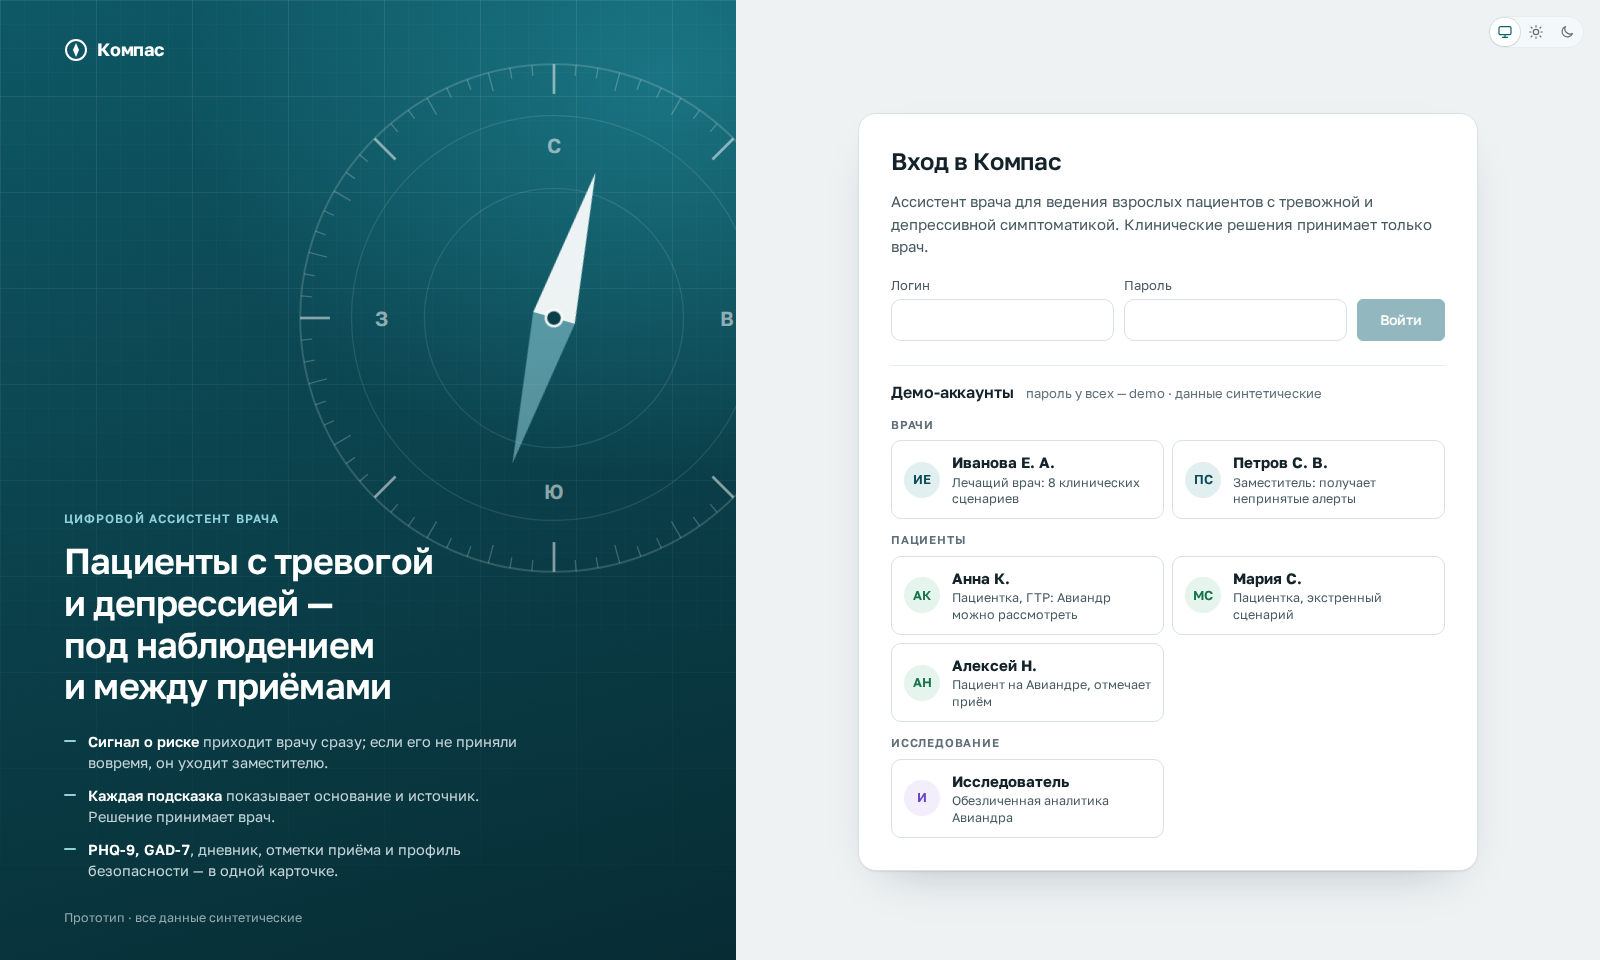
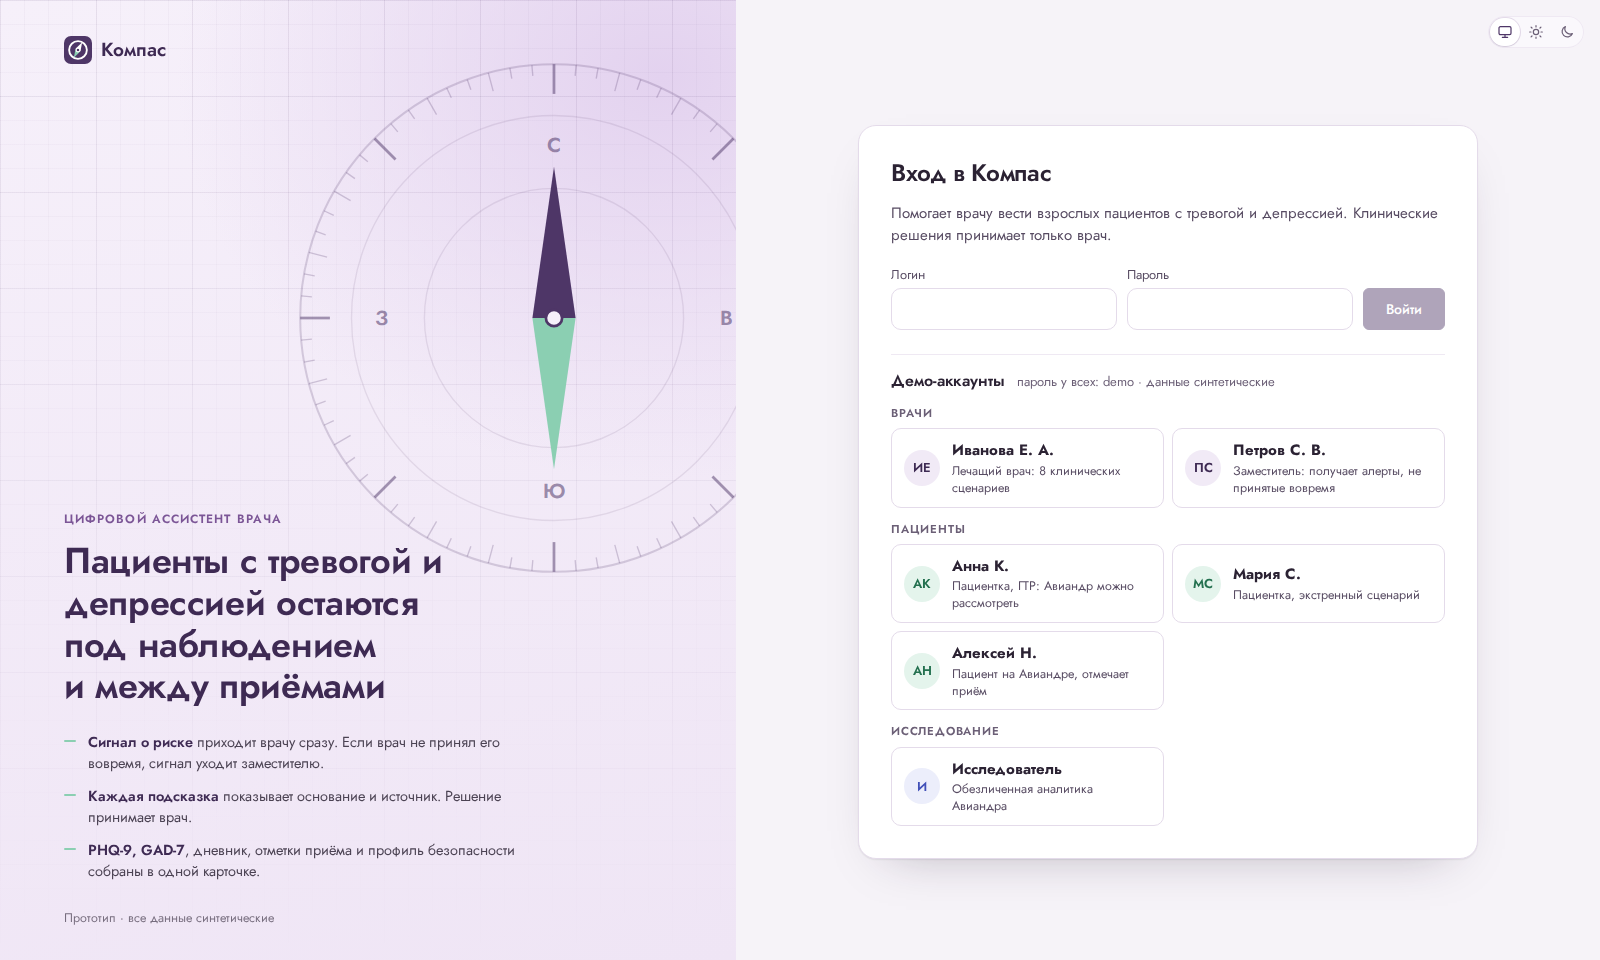
Интерфейс в стиле ТЗ хакатона: Jost, фиолетовый и мятный, новый знак и иконки
Светлая обложка входа, рамка телефона и тени без бирюзы. Безопасность терапии
теперь индиго, чтобы не путаться с фиолетовым цветом интерфейса. Серии аналитики
перепроверены валидатором палитры в обеих темах: дальтонизм ΔE ≥ 11,4 (светлая),
≥ 14,5 (тёмная). Текст по WCAG AA ≥ 5,4:1. Скриншоты README пересняты.

diff --git a/frontend/src/styles.css b/frontend/src/styles.css
@@ -2,47 +2,56 @@
    Нейтральная основа тихая и холодная, как хорошо освещённый кабинет.
    Цвет зарезервирован под клинический смысл:
    красный — экстренно / «обязательно», янтарный — «желательно» и «нет данных»,
-   фиолетовый — безопасность терапии, серый пунктир — качество данных,
-   петроль — интерфейс и действия врача.
+   индиго — безопасность терапии, серый пунктир — качество данных,
+   фиолетовый (стиль ТЗ хакатона: Jost, фиолетовый, сиреневый, мятный) — интерфейс и действия врача.
    Тема: системная по умолчанию; data-theme="light" | "dark" на <html> её перекрывает (src/theme.ts).
    Контраст текста по WCAG AA (≥ 4,5:1) проверен для обеих тем. */
 :root {
-  --paper: #eef2f3;
+  --paper: #f6f3f8;
   --surface: #ffffff;
-  --surface-2: #f5f8f9;
-  --rail-bg: #e7edef;
-  --ink: #14232a;
-  --ink-2: #475961;
-  --ink-3: #5f6f77;
-  --line: #d8e1e4;
-  --line-2: #e7edef;
-  --brand: #0f6170;
-  --brand-ink: #0b4a56;
-  --brand-soft: #e1eff1;
+  --surface-2: #faf8fc;
+  --rail-bg: #f0eaf4;
+  --ink: #2b2233;
+  --ink-2: #574b62;
+  --ink-3: #6b5f76;
+  --line: #e4dbea;
+  --line-2: #efe9f3;
+  --brand: #4e3667;
+  --brand-ink: #3e2a53;
+  --brand-soft: #f1eaf6;
   --on-brand: #ffffff;
-  --action: #0f6170;
-  --action-hover: #0b4a56;
+  --action: #4e3667;
+  --action-hover: #3e2a53;
   --on-action: #ffffff;
   --must: #b42318;
   --must-soft: #fdeeec;
   --on-must: #ffffff;
   --want: #975404;
   --want-soft: #fdf3e4;
-  --rx: #6941c6;
-  --rx-soft: #f2eefc;
-  --ok: #16734a;
-  --ok-soft: #e5f4ec;
+  --rx: #4150b8;
+  --rx-soft: #eceefb;
+  --ok: #23704f;
+  --ok-soft: #e4f4ec;
+  --mint: #8bcfb2;
   --band-1: #d9efe2; --band-2: #e9f1cf; --band-3: #fae6bd; --band-4: #f9d5bb; --band-5: #f5c5bf;
   --viz-line: var(--brand-ink);
-  --skel: #e2e9ec;
+  --skel: #ebe4f0;
   --skel-hi: rgba(255, 255, 255, .7);
-  --shadow: 0 1px 2px rgba(20, 35, 42, .05), 0 1px 1px rgba(20, 35, 42, .03);
-  --shadow-lg: 0 12px 32px rgba(14, 30, 37, .16);
-  --scrim: rgba(10, 20, 25, .5);
+  --shadow: 0 1px 2px rgba(43, 34, 51, .05), 0 1px 1px rgba(43, 34, 51, .03);
+  --shadow-lg: 0 12px 32px rgba(38, 27, 48, .16);
+  --scrim: rgba(24, 16, 30, .5);
   --r-s: 6px;
   --r-m: 10px;
   --r-l: 14px;
-  --font: 'Golos Text', system-ui, -apple-system, 'Segoe UI', sans-serif;
+  --font: 'Jost', system-ui, -apple-system, 'Segoe UI', sans-serif;
+  /* экран входа: светлая лавандовая обложка, как в ТЗ */
+  --hero-bg: radial-gradient(110% 70% at 90% 8%, #e3d2ef 0%, transparent 60%), linear-gradient(165deg, #f6f0fa 0%, #efe5f5 100%);
+  --hero-ink: #3e2a53; --hero-ink-2: rgba(43, 34, 51, .84); --hero-ink-3: rgba(43, 34, 51, .62);
+  --hero-accent: #7b5596; --hero-grid: rgba(78, 54, 103, .07); --hero-grid-2: rgba(78, 54, 103, .03);
+  --hero-ring: rgba(78, 54, 103, .2); --hero-ring-2: rgba(78, 54, 103, .11); --hero-tick: rgba(78, 54, 103, .24);
+  --hero-tick-major: rgba(78, 54, 103, .5); --hero-letter: rgba(78, 54, 103, .55);
+  --hero-north: #4e3667; --hero-south: #8bcfb2; --hero-hub: #f6f0fa; --hero-hub-ring: #4e3667;
+  --phone-frame: #2a2131;
   --topbar-h: 56px;
   --ease-out: cubic-bezier(.2, .7, .2, 1);
   --ease-spring: cubic-bezier(.3, 1.3, .6, 1);
@@ -53,31 +62,45 @@
 /* Тёмная тема: одни и те же значения для системной настройки и для явного выбора */
 @media (prefers-color-scheme: dark) {
   :root:where(:not([data-theme="light"])) {
-    --paper: #0c1418; --surface: #141f26; --surface-2: #1a2830; --rail-bg: #101a20;
-    --ink: #e6eef1; --ink-2: #aebdc4; --ink-3: #8b9ca4; --line: #2a3b45; --line-2: #1f2e37;
-    --brand: #5ab4c2; --brand-ink: #8fd0da; --brand-soft: #143239; --on-brand: #0b1519;
-    --action: #237c89; --action-hover: #1e6f7b; --on-action: #ffffff;
+    --paper: #141019; --surface: #1d1724; --surface-2: #251e2d; --rail-bg: #18131e;
+    --ink: #efe9f3; --ink-2: #c7bccf; --ink-3: #a597ae; --line: #3a3043; --line-2: #2a2231;
+    --brand: #cdb4e4; --brand-ink: #e4d4f0; --brand-soft: #2e2339; --on-brand: #1a1220;
+    --action: #6d4d8f; --action-hover: #7d5ba0; --on-action: #ffffff;
     --must: #f28b80; --must-soft: #3a1e1c; --on-must: #1a0b0a; --want: #e7b35e; --want-soft: #33291a;
-    --rx: #b9a0f0; --rx-soft: #282042; --ok: #6fcf98; --ok-soft: #15301f;
-    --band-1: color-mix(in srgb, #6fcf98 22%, #141f26); --band-2: color-mix(in srgb, #b9d16a 22%, #141f26);
-    --band-3: color-mix(in srgb, #e7b35e 24%, #141f26); --band-4: color-mix(in srgb, #ee9a68 26%, #141f26);
-    --band-5: color-mix(in srgb, #f28b80 30%, #141f26);
-    --skel: #1d2b33; --skel-hi: rgba(255, 255, 255, .06);
+    --rx: #a3a8f6; --rx-soft: #23253f; --ok: #6fcf98; --ok-soft: #15301f;
+    --band-1: color-mix(in srgb, #6fcf98 22%, #1d1724); --band-2: color-mix(in srgb, #b9d16a 22%, #1d1724);
+    --band-3: color-mix(in srgb, #e7b35e 24%, #1d1724); --band-4: color-mix(in srgb, #ee9a68 26%, #1d1724);
+    --band-5: color-mix(in srgb, #f28b80 30%, #1d1724);
+    --skel: #2a2232; --skel-hi: rgba(255, 255, 255, .06);
+    --hero-bg: radial-gradient(110% 70% at 90% 8%, rgba(141, 99, 180, .45) 0%, transparent 60%), linear-gradient(165deg, #3a2950 0%, #271b36 55%, #1a1224 100%);
+    --hero-ink: #ffffff; --hero-ink-2: rgba(240, 232, 245, .84); --hero-ink-3: rgba(240, 232, 245, .62);
+    --hero-accent: #d8c1e6; --hero-grid: rgba(255, 255, 255, .06); --hero-grid-2: rgba(255, 255, 255, .025);
+    --hero-ring: rgba(255, 255, 255, .16); --hero-ring-2: rgba(255, 255, 255, .1); --hero-tick: rgba(255, 255, 255, .22);
+    --hero-tick-major: rgba(255, 255, 255, .5); --hero-letter: rgba(255, 255, 255, .55);
+    --hero-north: rgba(255, 255, 255, .92); --hero-south: rgba(139, 207, 178, .6); --hero-hub: #271b36; --hero-hub-ring: rgba(255, 255, 255, .9);
+    --phone-frame: #3a3043;
     --shadow: none; --shadow-lg: 0 14px 36px rgba(0, 0, 0, .5); --scrim: rgba(0, 0, 0, .62);
     color-scheme: dark;
   }
 }
 :root[data-theme="dark"] {
-  --paper: #0c1418; --surface: #141f26; --surface-2: #1a2830; --rail-bg: #101a20;
-  --ink: #e6eef1; --ink-2: #aebdc4; --ink-3: #8b9ca4; --line: #2a3b45; --line-2: #1f2e37;
-  --brand: #5ab4c2; --brand-ink: #8fd0da; --brand-soft: #143239; --on-brand: #0b1519;
-  --action: #237c89; --action-hover: #1e6f7b; --on-action: #ffffff;
+  --paper: #141019; --surface: #1d1724; --surface-2: #251e2d; --rail-bg: #18131e;
+  --ink: #efe9f3; --ink-2: #c7bccf; --ink-3: #a597ae; --line: #3a3043; --line-2: #2a2231;
+  --brand: #cdb4e4; --brand-ink: #e4d4f0; --brand-soft: #2e2339; --on-brand: #1a1220;
+  --action: #6d4d8f; --action-hover: #7d5ba0; --on-action: #ffffff;
   --must: #f28b80; --must-soft: #3a1e1c; --on-must: #1a0b0a; --want: #e7b35e; --want-soft: #33291a;
-  --rx: #b9a0f0; --rx-soft: #282042; --ok: #6fcf98; --ok-soft: #15301f;
-  --band-1: color-mix(in srgb, #6fcf98 22%, #141f26); --band-2: color-mix(in srgb, #b9d16a 22%, #141f26);
-  --band-3: color-mix(in srgb, #e7b35e 24%, #141f26); --band-4: color-mix(in srgb, #ee9a68 26%, #141f26);
-  --band-5: color-mix(in srgb, #f28b80 30%, #141f26);
-  --skel: #1d2b33; --skel-hi: rgba(255, 255, 255, .06);
+  --rx: #a3a8f6; --rx-soft: #23253f; --ok: #6fcf98; --ok-soft: #15301f;
+  --band-1: color-mix(in srgb, #6fcf98 22%, #1d1724); --band-2: color-mix(in srgb, #b9d16a 22%, #1d1724);
+  --band-3: color-mix(in srgb, #e7b35e 24%, #1d1724); --band-4: color-mix(in srgb, #ee9a68 26%, #1d1724);
+  --band-5: color-mix(in srgb, #f28b80 30%, #1d1724);
+  --skel: #2a2232; --skel-hi: rgba(255, 255, 255, .06);
+  --hero-bg: radial-gradient(110% 70% at 90% 8%, rgba(141, 99, 180, .45) 0%, transparent 60%), linear-gradient(165deg, #3a2950 0%, #271b36 55%, #1a1224 100%);
+  --hero-ink: #ffffff; --hero-ink-2: rgba(240, 232, 245, .84); --hero-ink-3: rgba(240, 232, 245, .62);
+  --hero-accent: #d8c1e6; --hero-grid: rgba(255, 255, 255, .06); --hero-grid-2: rgba(255, 255, 255, .025);
+  --hero-ring: rgba(255, 255, 255, .16); --hero-ring-2: rgba(255, 255, 255, .1); --hero-tick: rgba(255, 255, 255, .22);
+  --hero-tick-major: rgba(255, 255, 255, .5); --hero-letter: rgba(255, 255, 255, .55);
+  --hero-north: rgba(255, 255, 255, .92); --hero-south: rgba(139, 207, 178, .6); --hero-hub: #271b36; --hero-hub-ring: rgba(255, 255, 255, .9);
+  --phone-frame: #3a3043;
   --shadow: none; --shadow-lg: 0 14px 36px rgba(0, 0, 0, .5); --scrim: rgba(0, 0, 0, .62);
   color-scheme: dark;
 }
@@ -119,8 +142,11 @@ ul, ol { margin: 0; }
   display: flex; align-items: center; gap: 12px 18px; height: var(--topbar-h); padding: 0 16px 0 24px;
   background: var(--surface); border-bottom: 1px solid var(--line); position: sticky; top: 0; z-index: 10;
 }
-.logo { display: flex; align-items: center; gap: 9px; font-weight: 700; font-size: 18px; letter-spacing: -0.01em; color: var(--ink); white-space: nowrap; }
-.logo svg { color: var(--brand); flex: none; }
+.logo { display: flex; align-items: center; gap: 9px; font-weight: 600; font-size: 19px; letter-spacing: 0; color: var(--brand-ink); white-space: nowrap; }
+.logo svg { flex: none; }
+.logo-tile { fill: var(--action); }
+.logo-south { fill: var(--mint); }
+.logo-hub { fill: var(--action); stroke: #fff; stroke-width: 5; }
 .tabs { display: flex; align-self: stretch; gap: 2px; margin-left: 10px; }
 .tabs button {
   position: relative; display: inline-flex; align-items: center; gap: 8px; border: 0; background: transparent;
@@ -534,7 +560,7 @@ ul, ol { margin: 0; }
 .patient-wrap { display: flex; justify-content: center; align-items: flex-start; padding: 32px 16px 56px; gap: 48px; flex-wrap: wrap; }
 .phone {
   width: 390px; max-width: 100%; height: 800px; background: var(--surface); border-radius: 36px;
-  box-shadow: 0 0 0 10px #1d2a30, 0 24px 60px rgba(14, 30, 37, .22);
+  box-shadow: 0 0 0 10px var(--phone-frame), 0 24px 60px rgba(38, 27, 48, .22);
   overflow: hidden; display: flex; flex-direction: column; position: relative;
 }
 .phone-status { display: flex; justify-content: space-between; padding: 12px 28px 0; font-size: 13px; font-weight: 600; }
@@ -685,40 +711,37 @@ ul, ol { margin: 0; }
 .login { position: relative; min-height: 100dvh; display: grid; grid-template-columns: minmax(400px, .92fr) minmax(0, 1.08fr); }
 .login-hero {
   position: relative; overflow: hidden; display: flex; flex-direction: column; gap: 28px;
-  padding: 36px clamp(32px, 4vw, 64px) 32px; color: #e8f3f5;
-  background:
-    radial-gradient(110% 70% at 90% 8%, rgba(37, 147, 163, .55) 0%, transparent 60%),
-    linear-gradient(165deg, #0e5866 0%, #0a3f49 55%, #072c34 100%);
+  padding: 36px clamp(32px, 4vw, 64px) 32px; color: var(--hero-ink-2);
+  background: var(--hero-bg);
 }
 /* миллиметровка — как бумага медицинских записей и графиков */
 .login-hero::before {
   content: ''; position: absolute; inset: 0; pointer-events: none;
   background-image:
-    linear-gradient(rgba(255, 255, 255, .06) 1px, transparent 1px), linear-gradient(90deg, rgba(255, 255, 255, .06) 1px, transparent 1px),
-    linear-gradient(rgba(255, 255, 255, .025) 1px, transparent 1px), linear-gradient(90deg, rgba(255, 255, 255, .025) 1px, transparent 1px);
+    linear-gradient(var(--hero-grid) 1px, transparent 1px), linear-gradient(90deg, var(--hero-grid) 1px, transparent 1px),
+    linear-gradient(var(--hero-grid-2) 1px, transparent 1px), linear-gradient(90deg, var(--hero-grid-2) 1px, transparent 1px);
   background-size: 96px 96px, 96px 96px, 24px 24px, 24px 24px;
   -webkit-mask-image: linear-gradient(180deg, #000 0%, rgba(0, 0, 0, .55) 55%, transparent 100%);
   mask-image: linear-gradient(180deg, #000 0%, rgba(0, 0, 0, .55) 55%, transparent 100%);
 }
-.login-hero .logo { position: relative; z-index: 1; color: #fff; }
-.login-hero .logo svg { color: #fff; }
+.login-hero .logo { position: relative; z-index: 1; color: var(--hero-ink); }
 .hero-copy { position: relative; z-index: 1; max-width: 32em; margin-top: auto; }
-.hero-kicker { font-size: 12px; font-weight: 600; letter-spacing: .09em; text-transform: uppercase; color: #8fd0da; }
-.hero-title { font-size: clamp(26px, 2.3vw, 36px); line-height: 1.16; font-weight: 600; letter-spacing: -.022em; margin: 12px 0 24px; color: #fff; text-wrap: balance; }
-.hero-points { list-style: none; padding: 0; display: grid; gap: 12px; font-size: 14.5px; line-height: 1.45; color: rgba(232, 243, 245, .84); }
+.hero-kicker { font-size: 12px; font-weight: 600; letter-spacing: .09em; text-transform: uppercase; color: var(--hero-accent); }
+.hero-title { font-size: clamp(26px, 2.3vw, 36px); line-height: 1.16; font-weight: 600; letter-spacing: -.01em; margin: 12px 0 24px; color: var(--hero-ink); text-wrap: balance; }
+.hero-points { list-style: none; padding: 0; display: grid; gap: 12px; font-size: 14.5px; line-height: 1.45; color: var(--hero-ink-2); }
 .hero-points li { padding-left: 24px; position: relative; }
-.hero-points li::before { content: ''; position: absolute; left: 0; top: .62em; width: 12px; height: 2px; border-radius: 2px; background: #8fd0da; }
-.hero-points b { color: #fff; font-weight: 600; }
-.hero-foot { position: relative; z-index: 1; font-size: 12.5px; color: rgba(232, 243, 245, .62); }
+.hero-points li::before { content: ''; position: absolute; left: 0; top: .62em; width: 12px; height: 2px; border-radius: 2px; background: var(--mint); }
+.hero-points b { color: var(--hero-ink); font-weight: 600; }
+.hero-foot { position: relative; z-index: 1; font-size: 12.5px; color: var(--hero-ink-3); }
 .compass-art { position: absolute; top: 5%; right: -12%; width: min(540px, 82%); height: auto; pointer-events: none; }
-.ca-ring { fill: none; stroke: rgba(255, 255, 255, .16); stroke-width: 1.5; }
-.ca-ring.thin { stroke-width: 1; stroke: rgba(255, 255, 255, .1); }
-.ca-tick { stroke: rgba(255, 255, 255, .22); stroke-width: 1; }
-.ca-tick.major { stroke: rgba(255, 255, 255, .5); stroke-width: 2; }
-.ca-letter { fill: rgba(255, 255, 255, .55); font-size: 15px; font-weight: 600; font-family: var(--font); }
-.ca-north { fill: rgba(255, 255, 255, .92); }
-.ca-south { fill: rgba(143, 208, 218, .55); }
-.ca-hub { fill: #0a3f49; stroke: rgba(255, 255, 255, .9); stroke-width: 2; }
+.ca-ring { fill: none; stroke: var(--hero-ring); stroke-width: 1.5; }
+.ca-ring.thin { stroke-width: 1; stroke: var(--hero-ring-2); }
+.ca-tick { stroke: var(--hero-tick); stroke-width: 1; }
+.ca-tick.major { stroke: var(--hero-tick-major); stroke-width: 2; }
+.ca-letter { fill: var(--hero-letter); font-size: 15px; font-weight: 600; font-family: var(--font); }
+.ca-north { fill: var(--hero-north); }
+.ca-south { fill: var(--hero-south); }
+.ca-hub { fill: var(--hero-hub); stroke: var(--hero-hub-ring); stroke-width: 2; }
 .ca-needle { animation: needle-settle 2.4s cubic-bezier(.25, .8, .3, 1) .25s both; }
 @keyframes needle-settle {
   0% { transform: rotate(-80deg); } 40% { transform: rotate(16deg); } 62% { transform: rotate(-6deg); }
@@ -728,7 +751,7 @@ ul, ol { margin: 0; }
 .login-tools { position: absolute; top: 16px; right: 16px; z-index: 2; }
 .login-card {
   width: min(620px, 100%); background: var(--surface); border: 1px solid var(--line); border-radius: 18px;
-  padding: 32px; box-shadow: var(--shadow), 0 20px 50px -30px rgba(14, 30, 37, .35); display: grid; gap: 14px;
+  padding: 32px; box-shadow: var(--shadow), 0 20px 50px -30px rgba(38, 27, 48, .35); display: grid; gap: 14px;
   animation: view-in .4s var(--ease-out) both;
 }
 .login-form { display: grid; grid-template-columns: 1fr 1fr auto; gap: 10px; align-items: end; margin-top: 4px; }

diff --git a/frontend/src/analytics.css b/frontend/src/analytics.css
@@ -1,5 +1,5 @@
 /* Экран «Авиандр: наблюдение применения». Токены — из styles.css, цвета серий — здесь.
-   Цвета групп исхода: петроль — продолжают (интерфейс), фиолетовый — отмена из-за НЯ
+   Цвета групп исхода: бирюзово-мятный — продолжают, индиго — отмена из-за НЯ
    (безопасность терапии), янтарный — недостаточный эффект, серый пунктир — прочие отмены.
    Красный не используется: он закреплён за экстренным.
    Палитра проверена валидатором dataviz (validate_palette.js, все пары, обе темы):
@@ -9,9 +9,9 @@
    светлота (обычное зрение ΔE ≥ 16 ко всем) и контраст ≥ 3:1. */
 .an {
   --an-g-continued: #009397;
-  --an-g-stopped_ae: #6a41c6;
+  --an-g-stopped_ae: #4a58c8;
   --an-g-stopped_inefficacy: #bd7221;
-  --an-g-stopped_other: #48555c;
+  --an-g-stopped_other: #4a4552;
   --an-line-w: 2.25px;
   --an-iqr-op: .14;
   --an-iqr-edge-op: .55;
@@ -19,7 +19,7 @@
   --an-adh-1: var(--brand);
   --an-adh-2: color-mix(in srgb, var(--brand) 66%, var(--surface));
   --an-adh-3: color-mix(in srgb, var(--brand) 42%, var(--surface));
-  --an-tip-shadow: 0 8px 28px rgba(14, 30, 37, .14);
+  --an-tip-shadow: 0 8px 28px rgba(38, 27, 48, .14);
   max-width: 1600px; margin: 0 auto; padding: 24px 32px 56px;
   display: grid; gap: 16px;
 }
@@ -28,9 +28,9 @@
 @media (prefers-color-scheme: dark) {
   :root:where(:not([data-theme="light"])) .an {
     --an-g-continued: #17a7b4;
-    --an-g-stopped_ae: #906eda;
+    --an-g-stopped_ae: #6f6ee0;
     --an-g-stopped_inefficacy: #c68627;
-    --an-g-stopped_other: #636f76;
+    --an-g-stopped_other: #6b6674;
     --an-line-w: 2.75px;
     --an-iqr-op: .26;
     --an-iqr-edge-op: .8;
@@ -39,9 +39,9 @@
 }
 :root[data-theme="dark"] .an {
   --an-g-continued: #17a7b4;
-  --an-g-stopped_ae: #906eda;
+  --an-g-stopped_ae: #6f6ee0;
   --an-g-stopped_inefficacy: #c68627;
-  --an-g-stopped_other: #636f76;
+  --an-g-stopped_other: #6b6674;
   --an-line-w: 2.75px;
   --an-iqr-op: .26;
   --an-iqr-edge-op: .8;

diff --git a/frontend/src/components/Logo.tsx b/frontend/src/components/Logo.tsx
@@ -1,7 +1,16 @@
+// Знак Компаса: плитка цвета действий, кольцо и стрелка (север белый, юг мятный), как на обложке материалов
 export function Logo() {
   return (
     <span className="logo">
-      <svg width="24" height="24" viewBox="0 0 24 24" aria-hidden><circle cx="12" cy="12" r="10" fill="none" stroke="currentColor" strokeWidth="2" /><path d="M12 5l3 7-3 7-3-7z" fill="currentColor" /></svg>
+      <svg width="28" height="28" viewBox="0 0 120 120" aria-hidden>
+        <rect width="120" height="120" rx="30" className="logo-tile" />
+        <circle cx="60" cy="60" r="38" fill="none" stroke="#fff" strokeWidth="8" />
+        <g transform="rotate(28 60 60)">
+          <path d="M60 22 L72 60 L48 60 Z" fill="#fff" />
+          <path d="M48 60 L72 60 L60 98 Z" className="logo-south" />
+        </g>
+        <circle cx="60" cy="60" r="8" className="logo-hub" />
+      </svg>
       <span className="logo-text">Компас</span>
     </span>
   )

diff --git a/frontend/src/analyticsPreview.tsx b/frontend/src/analyticsPreview.tsx
@@ -4,10 +4,10 @@
 // Параметры в адресе (?role=researcher&theme=dark&source=mock&scenario=empty) — для повторяемых скриншотов.
 import { StrictMode, useCallback, useEffect, useState } from 'react'
 import { createRoot } from 'react-dom/client'
-import '@fontsource/golos-text/400.css'
-import '@fontsource/golos-text/500.css'
-import '@fontsource/golos-text/600.css'
-import '@fontsource/golos-text/700.css'
+import '@fontsource/jost/400.css'
+import '@fontsource/jost/500.css'
+import '@fontsource/jost/600.css'
+import '@fontsource/jost/700.css'
 import './styles.css'
 import { AnalyticsView } from './components/AnalyticsView'
 import type { AnalyticsQuery, AviandrReport } from './analyticsTypes'

diff --git a/frontend/index.html b/frontend/index.html
@@ -21,7 +21,7 @@
         try { t = localStorage.getItem('kompas.theme') } catch (e) { /* приватный режим */ }
         if (t === 'light' || t === 'dark') document.documentElement.setAttribute('data-theme', t)
         var dark = t === 'dark' || (t !== 'light' && window.matchMedia && matchMedia('(prefers-color-scheme: dark)').matches)
-        document.querySelector('meta[name="theme-color"]').setAttribute('content', dark ? '#141f26' : '#ffffff')
+        document.querySelector('meta[name="theme-color"]').setAttribute('content', dark ? '#1d1724' : '#ffffff')
       })()
     </script>
   </head>

diff --git a/frontend/src/main.tsx b/frontend/src/main.tsx
@@ -1,10 +1,10 @@
 import { StrictMode } from 'react'
 import { createRoot } from 'react-dom/client'
 import App from './App'
-import '@fontsource/golos-text/400.css'
-import '@fontsource/golos-text/500.css'
-import '@fontsource/golos-text/600.css'
-import '@fontsource/golos-text/700.css'
+import '@fontsource/jost/400.css'
+import '@fontsource/jost/500.css'
+import '@fontsource/jost/600.css'
+import '@fontsource/jost/700.css'
 import './styles.css'
 
 createRoot(document.getElementById('root')!).render(<StrictMode><App /></StrictMode>)

diff --git a/frontend/src/theme.ts b/frontend/src/theme.ts
@@ -6,7 +6,7 @@ import { reducedMotion } from './hooks'
 export type ThemePref = 'system' | 'light' | 'dark'
 
 const KEY = 'kompas.theme'
-const BAR = { light: '#ffffff', dark: '#141f26' }      // строка состояния браузера = цвет верхней панели
+const BAR = { light: '#ffffff', dark: '#1d1724' }      // строка состояния браузера = цвет верхней панели
 
 export function readTheme(): ThemePref {
   try {
